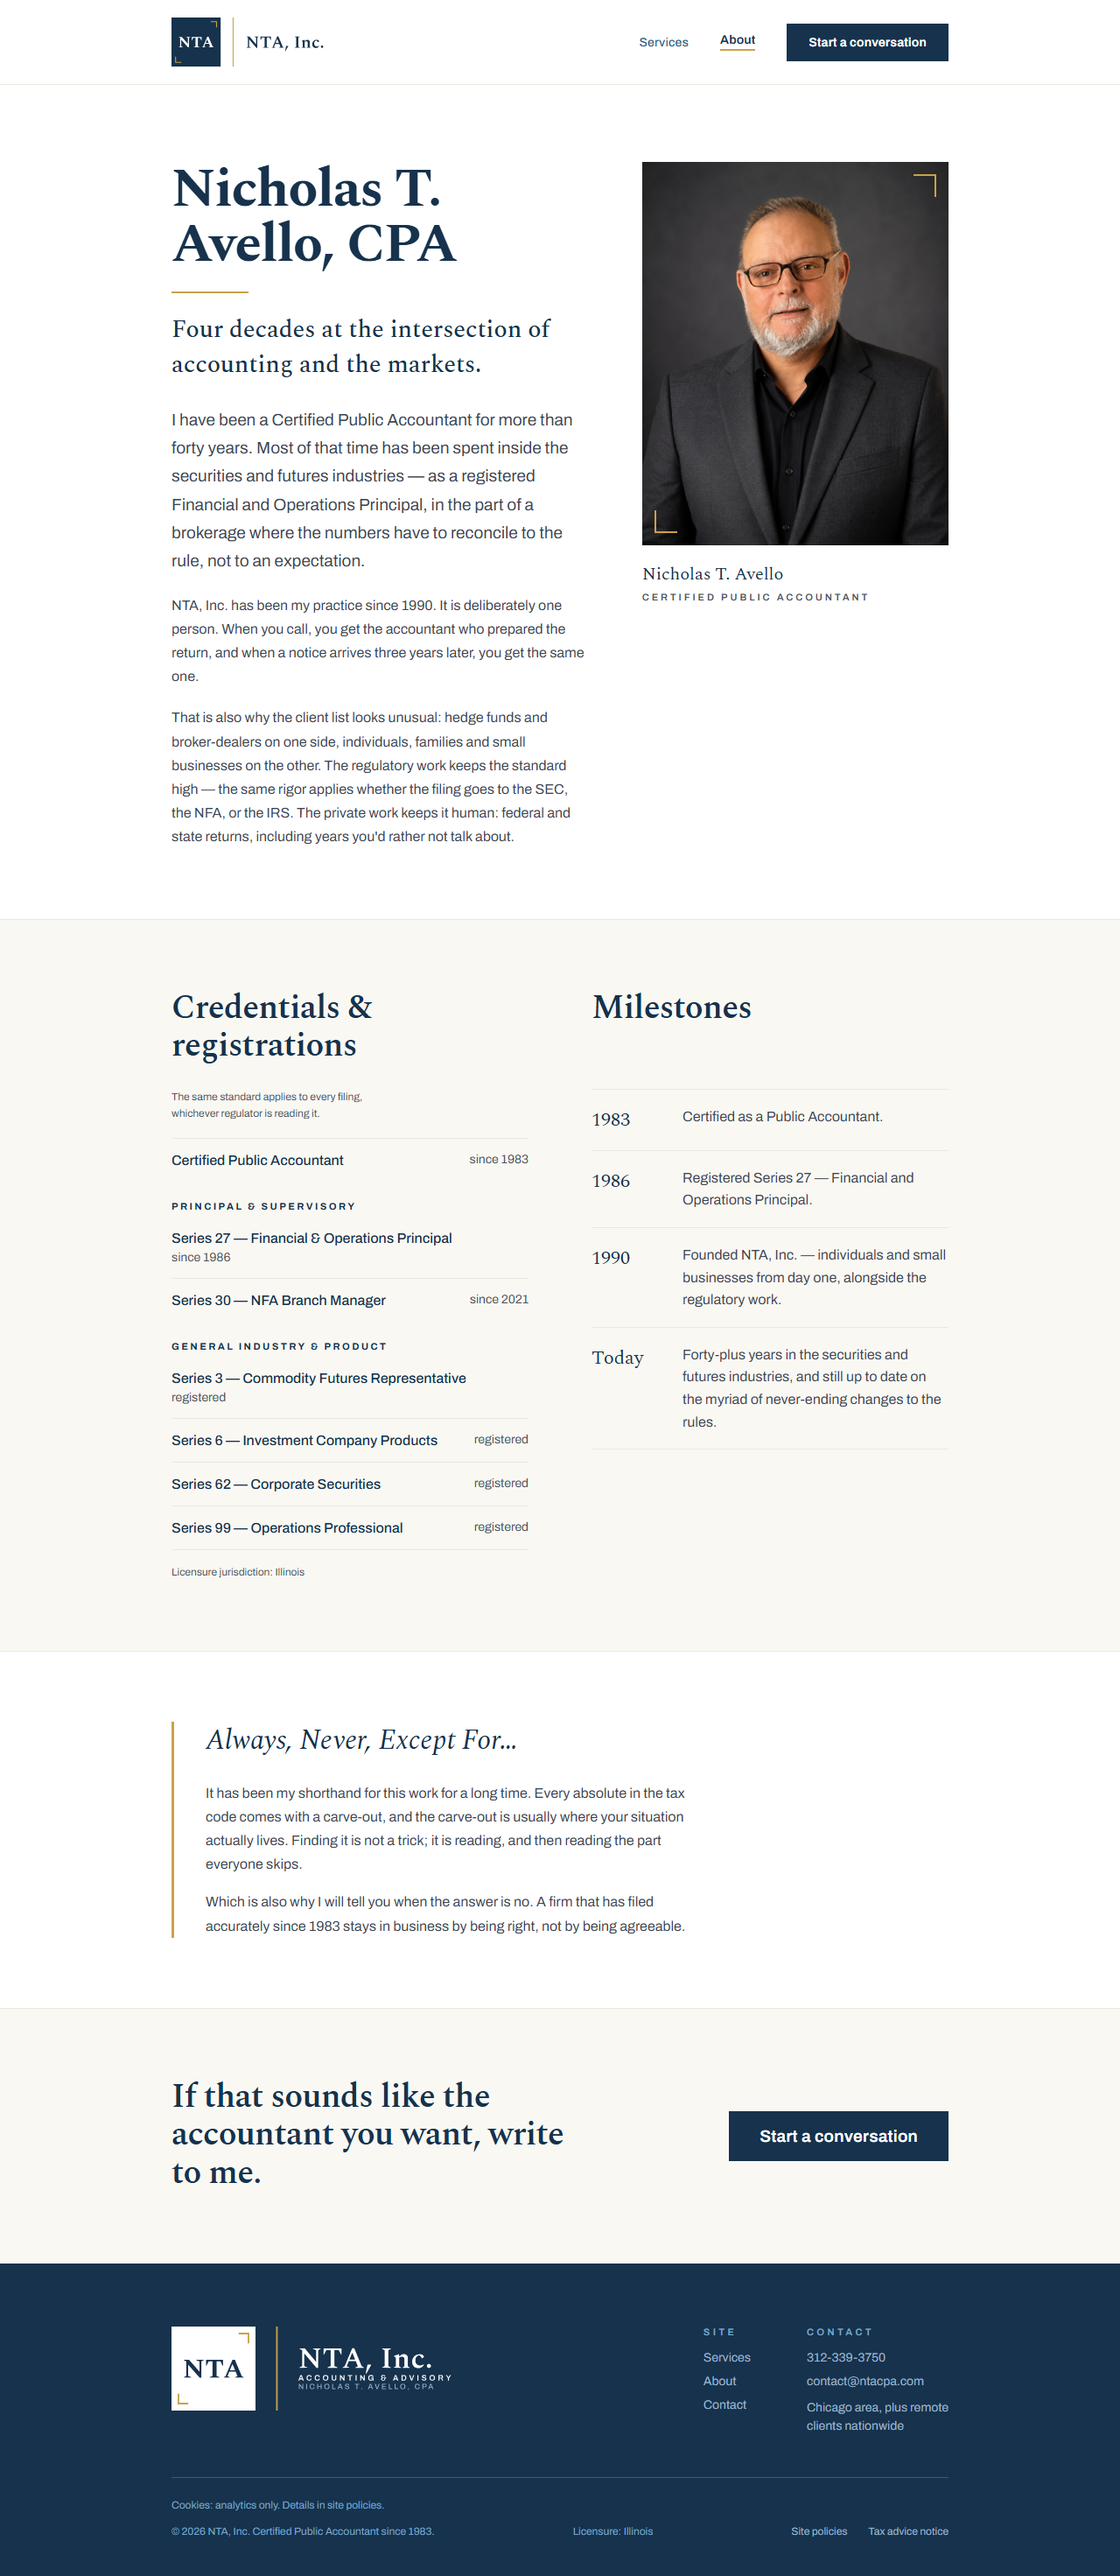
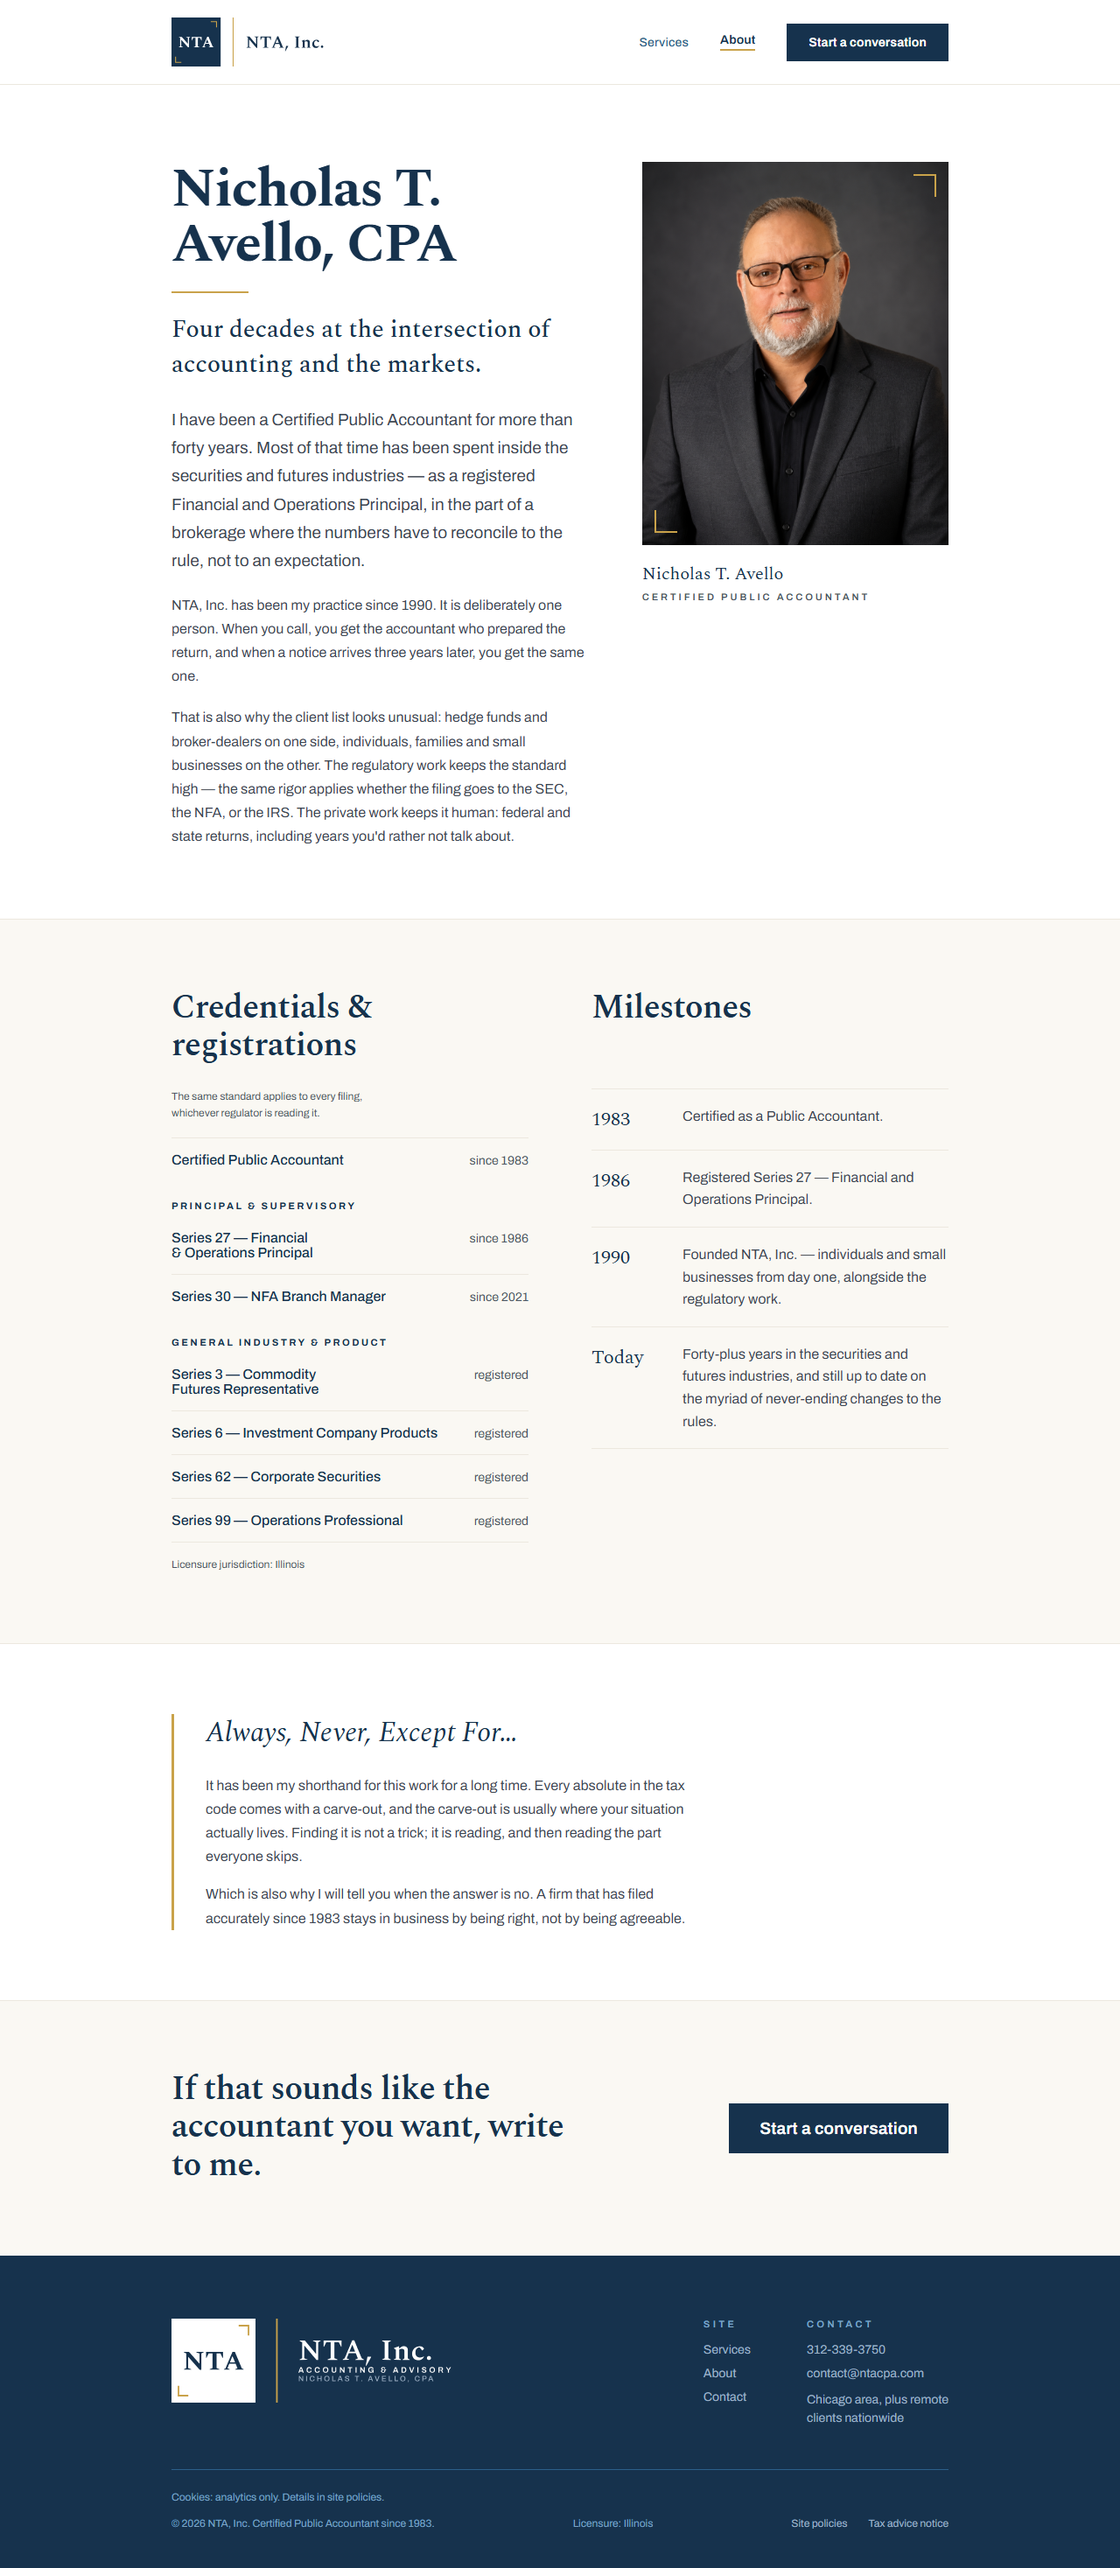
Let long credential labels wrap inside their own box on About; update README
About's credentials rows get the Home card's treatment: the label wraps and
the value stays at the right edge instead of dropping below. README: three-
entry Home teaser, the tag-break exception, the new wrap behavior, and the
Layout tree's legal header/footer files. Refreshes About QA screenshots.

diff --git a/README.md b/README.md
@@ -72,7 +72,9 @@ src/
     legal.css           shared by the two legal pages
   components/
     Header.astro        desktop nav + full-screen mobile menu
-    Footer.astro        LegalHeader/LegalFooter for the stripped legal chrome
+    Footer.astro        full navy site footer
+    LegalHeader.astro   stripped header for the legal pages
+    LegalFooter.astro   stripped footer for the legal pages
     ContactForm.astro   form → sent panel swap
     CtaBand.astro  PullQuote.astro
   layouts/Base.astro    document shell, meta, chrome selection
@@ -103,7 +105,10 @@ stated as named rules in [`DESIGN.md`](DESIGN.md):
 - **Tracked uppercase labels always `white-space: nowrap`.** The tracking leaves
   zero slack, so they silently re-break on a font fallback. Where a label will
   not fit at 390px, it gets *shorter copy* (`.label__long` / `.label__short`),
-  never a wrap.
+  never a wrap. The one ratified exception is multi-item service tags (the
+  Services page's `.label--tag`), which may break between items only: each
+  item is a `.label__item` span with `nowrap`, and the separator trails its
+  item (see DESIGN.md, The No-Wrap Rule).
 - **The gold rule has exactly two uses**: one horizontal rule under a page's own
   H1, and a vertical rule binding two things that belong together (the logo
   lockup, a pull quote to its attribution).
@@ -179,8 +184,13 @@ Every one of these is deliberate; revert any you disagree with.
   series number (`src/data/site.ts`), but About re-groups it into "Principal &
   Supervisory" (27, 30) and "General Industry & Product" (3, 6, 62, 99) — not
   in the comps at all, added at Nicholas's request to match how his own
-  FINRA/NFA exam-history record categorizes them. Home still shows an
-  unwrapped four-entry teaser; the grouping only applies to About's full list.
+  FINRA/NFA exam-history record categorizes them. Home shows a three-entry
+  teaser (CPA, Series 27 Financial & Operations Principal, Series 30 NFA Branch
+  Manager); the grouping only applies to About's full list.
+- **Credential rows let a long label wrap inside its own box.** On the Home
+  card and About's credentials, the value stays on the first line at the right
+  edge rather than the whole value dropping below the label, which kept rows
+  uneven. (The Milestones list is a separate grid and is unaffected.)
 
 ## Contact constants
 
